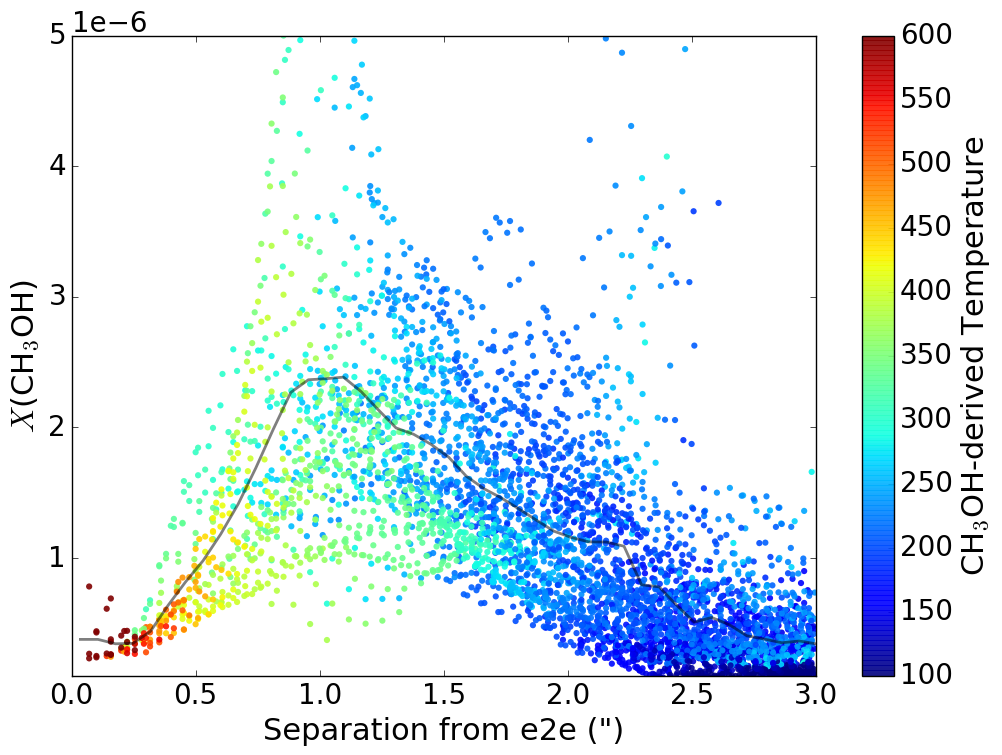
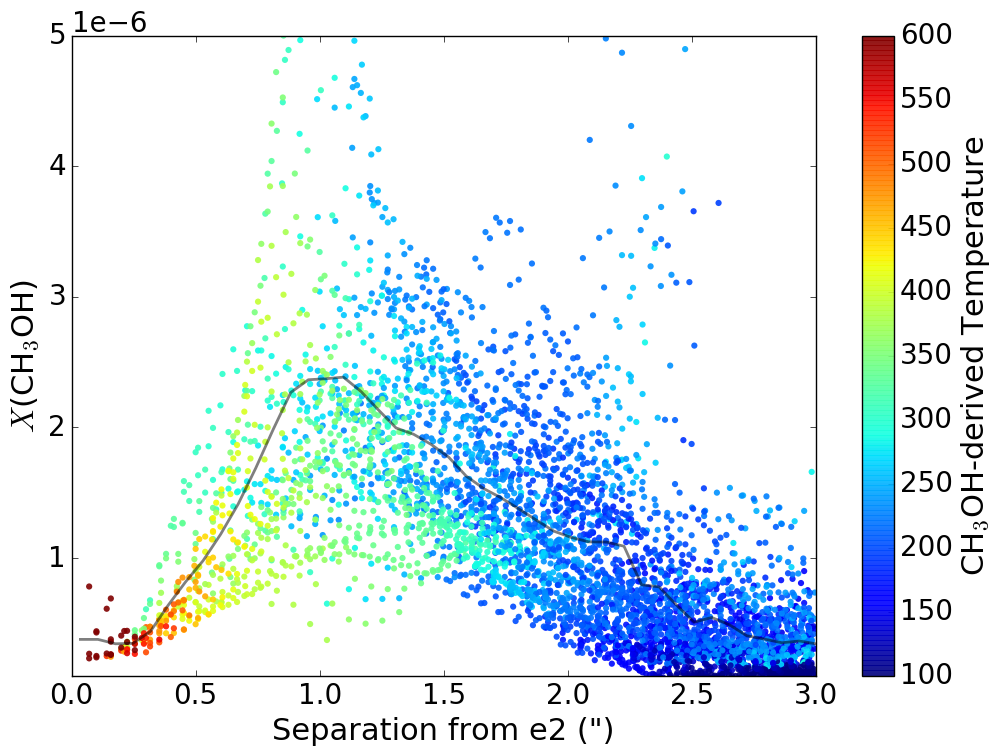
replace figures/links

Changed region(s): [[0.2475, 0.9444, 0.6188, 1.0]]

diff --git a/cores_and_outflows/cores_and_outflows.tex b/cores_and_outflows/cores_and_outflows.tex
@@ -694,9 +694,9 @@ AU) radius of e2e, with pixels having low column density and high temperature
 by a different source) excluded.
 
 \FigureFour{figures/CH3OH_LTE_temperature_vs_abundance.png}
-{figures/CH3OH_LTE_temperature_radial_profile.png}
-{figures/CH3OH_LTE_abundance_radial_profile.png}
-{figures/CH3OH_LTE_vs_dust_column.png}
+{figures/e2_CH3OH_LTE_temperature_radial_profile.png}
+{figures/e2_CH3OH_LTE_abundance_radial_profile.png}
+{figures/e2_CH3OH_LTE_vs_dust_column.png}
 {Comparison of the \methanol temperature, column density, and abundance.
 (a) The relation between temperature and abundance.  There is a weak correlation,
 but most of the high abundance regions are at high temperatures.
